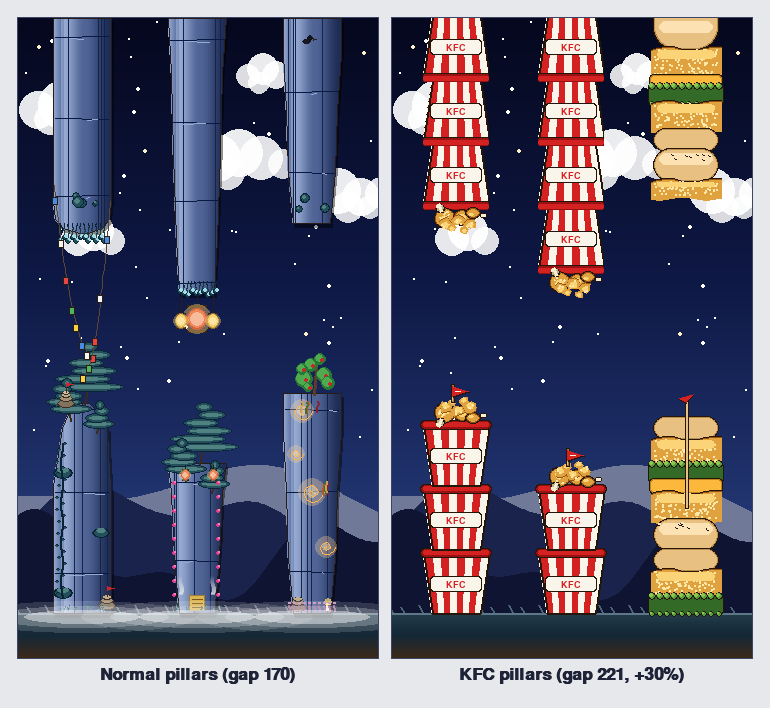
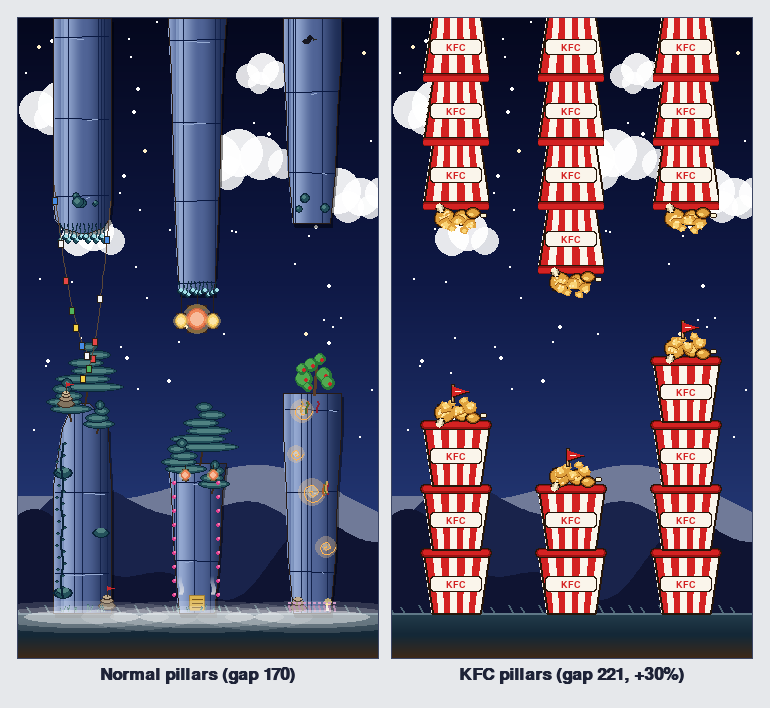
KFC pillars: retire sandwich variant, redistribute weight to bucket (50/25/25) (#14)
The sandwich variant (bun/fillet/cheese/lettuce/fillet/bun tower) was
hard to read at gameplay scale - the stacked layers blended together
and players couldn't tell its silhouette from the other two non-bucket
variants at a glance. Drop it from the active rotation but keep
draw_pillar_kfc_sandwich (and all its layer helpers) fully defined in
the module so the design isn't lost. Re-add it to the KFC_DRAWERS
tuple to bring it back.

New distribution: 50% bucket, 25% hot dog, 25% corn dog. Achieved by
listing draw_pillar_kfc_bucket twice in KFC_DRAWERS (slots 1 and 3 of
the 4-slot tuple) - the seed % 4 dispatch is unchanged, so every Pipe
still gets a deterministic, stable-across-frames variant, just with
the bucket twice as likely to win.

Updated the module docstring to describe the active 3-variant rotation
and explicitly note the retired sandwich design.

Re-rendered the docs screenshots so they reflect the new distribution.

Changed region(s): [[0.8416, 0.435, 0.9662, 0.8701], [0.8416, 0.0, 0.9662, 0.3418]]

diff --git a/game/pillar_kfc.py b/game/pillar_kfc.py
@@ -1,26 +1,32 @@
-"""KFC powerup pillar pool: 4 fast-food-themed pillar designs.
+"""KFC powerup pillar pool: 3 fast-food-themed pillar designs.
 
 When the KFC powerup is active, every pillar on screen flips from the
-normal stone-and-foliage variants to one of the 4 designs below. The
-variant is picked deterministically per pillar via `seed % 4`, so the
-same Pipe stays visually stable across frames as it scrolls.
+normal stone-and-foliage variants to one of the designs below. The
+variant is picked deterministically per pillar via `seed % 4` against
+the KFC_DRAWERS tuple, in which the bucket is listed twice so the
+distribution comes out 50% bucket / 25% hot dog / 25% corn dog. Pipe
+seeds are stable for the lifetime of the Pipe instance, so a given
+pillar keeps the same look as it scrolls across the screen.
 
-  0  Hot Dog        side buns + sausage running through the gap +
-                    mustard zigzag + ketchup dots
-  1  Bucket Stack   stacked KFC bucket trapezoids (red+white striped)
-                    with overflowing chicken pile + a tiny pennant
-                    flag planted in the pile
-  2  Corn Dog       golden batter rod with crispy bumps + honey-
-                    mustard drips + plain wooden skewer at the gap
-  3  Sandwich       multi-layer tower (bun-top / fillet / cheese /
-                    lettuce / fillet / bun-bot) + toothpick skewer
-                    with red cellophane frill at the gap
+  Hot Dog        side buns + sausage running through the gap +
+                 mustard zigzag + ketchup dots                     (25%)
+  Bucket Stack   stacked KFC bucket trapezoids (red+white striped)
+                 with overflowing chicken pile + a tiny pennant
+                 flag planted in the pile                          (50%)
+  Corn Dog       golden batter rod with crispy bumps + honey-
+                 mustard drips + plain wooden skewer at the gap    (25%)
 
-For both the corn dog and the sandwich, the top pillar's first layer
-renders with flat top corners (no top-radius) so the rod / bun visually
-connects to the ceiling instead of floating below it. Bucket-stack top
-pillars use vertically flipped trapezoids so the rim faces the gap and
-chicken pile hangs DOWN from it toward the gap, not into the bucket.
+The corn dog's top pillar renders with flat top corners (no top-radius)
+so the rod visually connects to the ceiling instead of floating below
+it. Bucket-stack top pillars use vertically flipped trapezoids so the
+rim faces the gap and chicken pile hangs DOWN from it toward the gap,
+not into the bucket.
+
+A fourth design, `draw_pillar_kfc_sandwich`, is retained in this module
+(multi-layer tower of bun/fillet/cheese/lettuce + toothpick skewer)
+but is RETIRED from the active rotation - the layered silhouette was
+too hard to read at gameplay scale. Re-add it to KFC_DRAWERS to bring
+it back.
 """
 import math
 import random
@@ -716,17 +722,26 @@ def draw_pillar_kfc_sandwich(surf, top_rect, bot_rect, palette, seed):
 # Dispatcher
 # ===========================================================================
 
+# Active KFC pillar pool. Bucket appears TWICE so its `seed % 4` probability
+# is 50% (slots 1 and 3); hot dog and corn dog each get one slot for 25%.
+# The sandwich variant (draw_pillar_kfc_sandwich) is kept fully defined
+# above but is intentionally NOT listed here - it was hard to read at
+# gameplay scale and has been retired from the rotation. Re-add it to
+# this tuple to bring it back.
 KFC_DRAWERS = (
-    draw_pillar_kfc_hot_dog,
-    draw_pillar_kfc_bucket,
-    draw_pillar_kfc_corn_dog,
-    draw_pillar_kfc_sandwich,
+    draw_pillar_kfc_hot_dog,    # slot 0  → 25%
+    draw_pillar_kfc_bucket,     # slot 1  ┐
+    draw_pillar_kfc_corn_dog,   # slot 2  │ → 25%
+    draw_pillar_kfc_bucket,     # slot 3  ┘ → bucket total 50%
 )
 
 
 def draw_pillar_pair_kfc(surf, top_rect, bot_rect, palette, seed):
-    """Route to one of the 4 KFC pillar designs by `seed % 4`. Pipe seeds
+    """Route to one of the active KFC pillar designs by `seed % 4`.
+
+    Distribution is 50% bucket / 25% hot dog / 25% corn dog. Pipe seeds
     are stable for the lifetime of the Pipe instance, so a given pillar
-    keeps the same look as it scrolls across the screen."""
+    keeps the same look as it scrolls across the screen.
+    """
     KFC_DRAWERS[seed % len(KFC_DRAWERS)](surf, top_rect, bot_rect,
                                           palette, seed)
